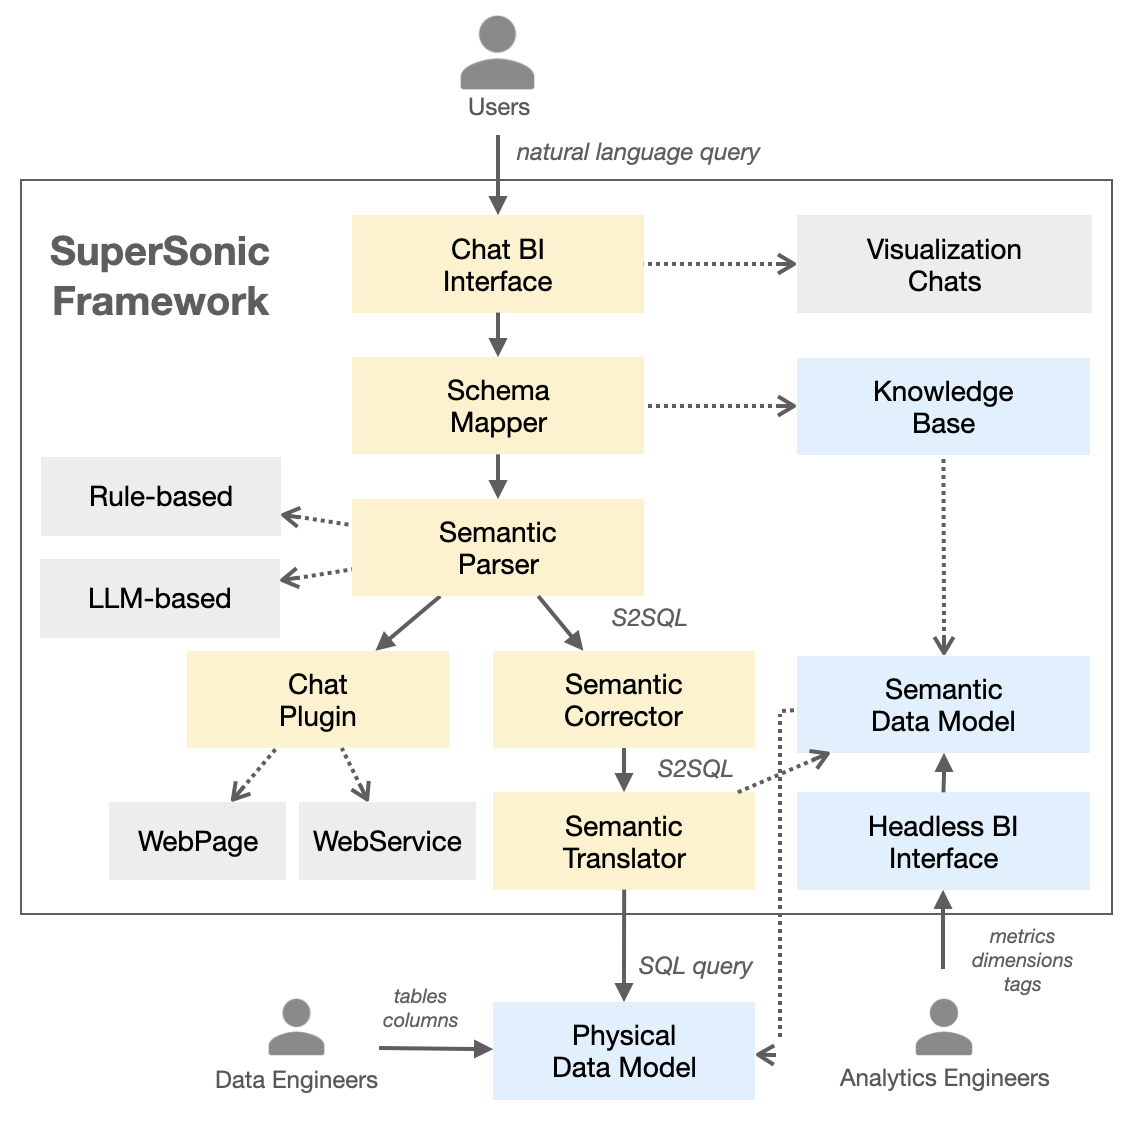
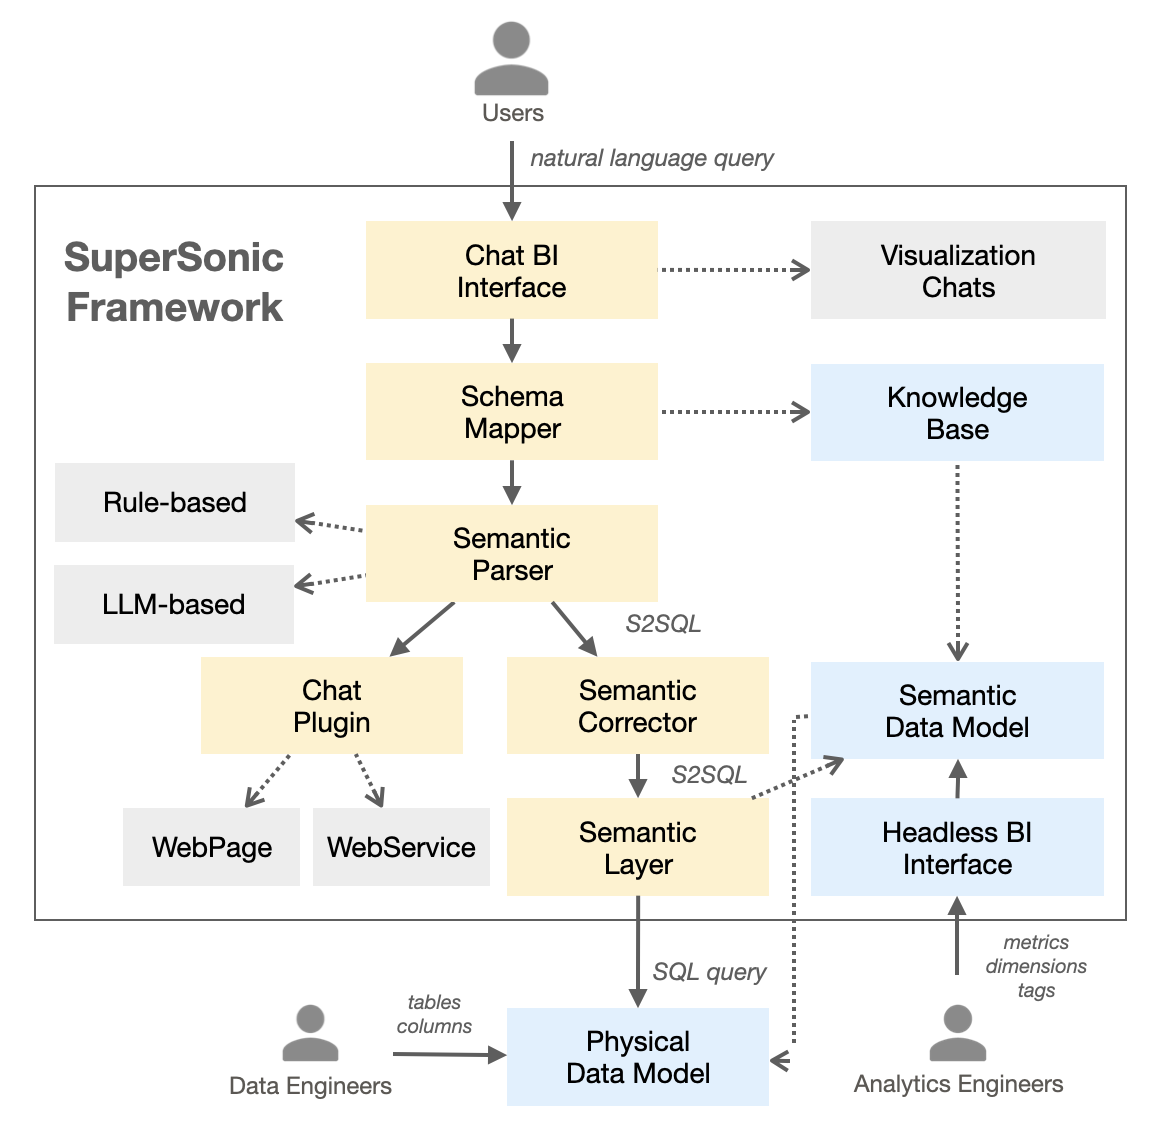
update architecture diagram supersonicbi/supersonic-website@c2b4e90f32a2adac97fd17ed9366f53eed288d13

diff --git a/en.search.min.e58361ee6a94e294281ae9491d2cc8cc53ec4a44b9a971f83f2f01f9f8c2fefe.js b/en.search.min.e58361ee6a94e294281ae9491d2cc8cc53ec4a44b9a971f83f2f01f9f8c2fefe.js
@@ -1,0 +1,1 @@
+"use strict";(function(){const o="/en.search-data.min.9fed5871d8051654f6367a95e5c81a5f96d656e63b72ceae3185a0ee5d215e9f.json",i=Object.assign({cache:!0},{includeScore:!0,useExtendedSearch:!0,fieldNormWeight:1.5,threshold:.2,ignoreLocation:!0,keys:[{name:"title",weight:.7},{name:"content",weight:.3}]}),e=document.querySelector("#book-search-input"),t=document.querySelector("#book-search-results");if(!e)return;e.addEventListener("focus",n),e.addEventListener("keyup",s),document.addEventListener("keypress",a);function a(t){if(t.target.value!==void 0)return;if(e===document.activeElement)return;const n=String.fromCharCode(t.charCode);if(!r(n))return;e.focus(),t.preventDefault()}function r(t){const n=e.getAttribute("data-hotkeys")||"";return n.indexOf(t)>=0}function n(){e.removeEventListener("focus",n),e.required=!0,fetch(o).then(e=>e.json()).then(e=>{window.bookSearchIndex=new Fuse(e,i)}).then(()=>e.required=!1).then(s)}function s(){for(;t.firstChild;)t.removeChild(t.firstChild);if(!e.value)return;const n=window.bookSearchIndex.search(e.value).slice(0,10);n.forEach(function(e){const n=c("<li><a href></a><small></small></li>"),s=n.querySelector("a"),o=n.querySelector("small");s.href=e.item.href,s.textContent=e.item.title,o.textContent=e.item.section,t.appendChild(n)})}function c(e){const t=document.createElement("div");return t.innerHTML=e,t.firstChild}})()

diff --git a/docs/系统部署/配置llm/index.html b/docs/系统部署/配置llm/index.html
@@ -31,7 +31,7 @@ rm /tmp/InMemory.meta_collectio年 rm /tmp/InMemory.preset_query_collection rm /
 <link rel="canonical" href="https://supersonicbi.github.io/docs/%E7%B3%BB%E7%BB%9F%E9%83%A8%E7%BD%B2/%E9%85%8D%E7%BD%AEllm/">
 <link rel="stylesheet" href="/book.min.4964903a822a7acb10dac6d1ab524833c97fb5f99b141976bcb8a47d539be9c0.css" integrity="sha256-SWSQOoIqessQ2sbRq1JIM8l/tfmbFBl2vLikfVOb6cA=" crossorigin="anonymous">
   <script defer src="/fuse.min.js"></script>
-  <script defer src="/en.search.min.39de96308f383e8c5493b621abca55951bf5b9f939781de49881c79b95fa2a1d.js" integrity="sha256-Od6WMI84PoxUk7Yhq8pVlRv1ufk5eB3kmIHHm5X6Kh0=" crossorigin="anonymous"></script>
+  <script defer src="/en.search.min.e58361ee6a94e294281ae9491d2cc8cc53ec4a44b9a971f83f2f01f9f8c2fefe.js" integrity="sha256-5YNh7mqU4pQoGulJHSzIzFPsSkS5qXH4Py8B&#43;fjC/v4=" crossorigin="anonymous"></script>
 
   
 

diff --git a/docs/系统部署/配置db/index.html b/docs/系统部署/配置db/index.html
@@ -27,7 +27,7 @@ spring: datasource: url: jdbc:mysql://localhost:3306/your_database?useUnicode=tr
 <link rel="canonical" href="https://supersonicbi.github.io/docs/%E7%B3%BB%E7%BB%9F%E9%83%A8%E7%BD%B2/%E9%85%8D%E7%BD%AEdb/">
 <link rel="stylesheet" href="/book.min.4964903a822a7acb10dac6d1ab524833c97fb5f99b141976bcb8a47d539be9c0.css" integrity="sha256-SWSQOoIqessQ2sbRq1JIM8l/tfmbFBl2vLikfVOb6cA=" crossorigin="anonymous">
   <script defer src="/fuse.min.js"></script>
-  <script defer src="/en.search.min.39de96308f383e8c5493b621abca55951bf5b9f939781de49881c79b95fa2a1d.js" integrity="sha256-Od6WMI84PoxUk7Yhq8pVlRv1ufk5eB3kmIHHm5X6Kh0=" crossorigin="anonymous"></script>
+  <script defer src="/en.search.min.e58361ee6a94e294281ae9491d2cc8cc53ec4a44b9a971f83f2f01f9f8c2fefe.js" integrity="sha256-5YNh7mqU4pQoGulJHSzIzFPsSkS5qXH4Py8B&#43;fjC/v4=" crossorigin="anonymous"></script>
 
   
 

diff --git a/docs/headless-bi/构建模型/index.html b/docs/headless-bi/构建模型/index.html
@@ -49,7 +49,7 @@ PVUV统计: 主要包含用户访问次数和访问人数等信息
 <link rel="canonical" href="https://supersonicbi.github.io/docs/headless-bi/%E6%9E%84%E5%BB%BA%E6%A8%A1%E5%9E%8B/">
 <link rel="stylesheet" href="/book.min.4964903a822a7acb10dac6d1ab524833c97fb5f99b141976bcb8a47d539be9c0.css" integrity="sha256-SWSQOoIqessQ2sbRq1JIM8l/tfmbFBl2vLikfVOb6cA=" crossorigin="anonymous">
   <script defer src="/fuse.min.js"></script>
-  <script defer src="/en.search.min.39de96308f383e8c5493b621abca55951bf5b9f939781de49881c79b95fa2a1d.js" integrity="sha256-Od6WMI84PoxUk7Yhq8pVlRv1ufk5eB3kmIHHm5X6Kh0=" crossorigin="anonymous"></script>
+  <script defer src="/en.search.min.e58361ee6a94e294281ae9491d2cc8cc53ec4a44b9a971f83f2f01f9f8c2fefe.js" integrity="sha256-5YNh7mqU4pQoGulJHSzIzFPsSkS5qXH4Py8B&#43;fjC/v4=" crossorigin="anonymous"></script>
 
   
 

diff --git a/docs/系统部署/编译构建/index.html b/docs/系统部署/编译构建/index.html
@@ -21,7 +21,7 @@
 <link rel="canonical" href="https://supersonicbi.github.io/docs/%E7%B3%BB%E7%BB%9F%E9%83%A8%E7%BD%B2/%E7%BC%96%E8%AF%91%E6%9E%84%E5%BB%BA/">
 <link rel="stylesheet" href="/book.min.4964903a822a7acb10dac6d1ab524833c97fb5f99b141976bcb8a47d539be9c0.css" integrity="sha256-SWSQOoIqessQ2sbRq1JIM8l/tfmbFBl2vLikfVOb6cA=" crossorigin="anonymous">
   <script defer src="/fuse.min.js"></script>
-  <script defer src="/en.search.min.39de96308f383e8c5493b621abca55951bf5b9f939781de49881c79b95fa2a1d.js" integrity="sha256-Od6WMI84PoxUk7Yhq8pVlRv1ufk5eB3kmIHHm5X6Kh0=" crossorigin="anonymous"></script>
+  <script defer src="/en.search.min.e58361ee6a94e294281ae9491d2cc8cc53ec4a44b9a971f83f2f01f9f8c2fefe.js" integrity="sha256-5YNh7mqU4pQoGulJHSzIzFPsSkS5qXH4Py8B&#43;fjC/v4=" crossorigin="anonymous"></script>
 
   
 

diff --git a/docs/headless-bi/组装数据集/index.html b/docs/headless-bi/组装数据集/index.html
@@ -25,7 +25,7 @@
 <link rel="canonical" href="https://supersonicbi.github.io/docs/headless-bi/%E7%BB%84%E8%A3%85%E6%95%B0%E6%8D%AE%E9%9B%86/">
 <link rel="stylesheet" href="/book.min.4964903a822a7acb10dac6d1ab524833c97fb5f99b141976bcb8a47d539be9c0.css" integrity="sha256-SWSQOoIqessQ2sbRq1JIM8l/tfmbFBl2vLikfVOb6cA=" crossorigin="anonymous">
   <script defer src="/fuse.min.js"></script>
-  <script defer src="/en.search.min.39de96308f383e8c5493b621abca55951bf5b9f939781de49881c79b95fa2a1d.js" integrity="sha256-Od6WMI84PoxUk7Yhq8pVlRv1ufk5eB3kmIHHm5X6Kh0=" crossorigin="anonymous"></script>
+  <script defer src="/en.search.min.e58361ee6a94e294281ae9491d2cc8cc53ec4a44b9a971f83f2f01f9f8c2fefe.js" integrity="sha256-5YNh7mqU4pQoGulJHSzIzFPsSkS5qXH4Py8B&#43;fjC/v4=" crossorigin="anonymous"></script>
 
   
 

diff --git a/docs/headless-bi/连接数据库/index.html b/docs/headless-bi/连接数据库/index.html
@@ -25,7 +25,7 @@
 <link rel="canonical" href="https://supersonicbi.github.io/docs/headless-bi/%E8%BF%9E%E6%8E%A5%E6%95%B0%E6%8D%AE%E5%BA%93/">
 <link rel="stylesheet" href="/book.min.4964903a822a7acb10dac6d1ab524833c97fb5f99b141976bcb8a47d539be9c0.css" integrity="sha256-SWSQOoIqessQ2sbRq1JIM8l/tfmbFBl2vLikfVOb6cA=" crossorigin="anonymous">
   <script defer src="/fuse.min.js"></script>
-  <script defer src="/en.search.min.39de96308f383e8c5493b621abca55951bf5b9f939781de49881c79b95fa2a1d.js" integrity="sha256-Od6WMI84PoxUk7Yhq8pVlRv1ufk5eB3kmIHHm5X6Kh0=" crossorigin="anonymous"></script>
+  <script defer src="/en.search.min.e58361ee6a94e294281ae9491d2cc8cc53ec4a44b9a971f83f2f01f9f8c2fefe.js" integrity="sha256-5YNh7mqU4pQoGulJHSzIzFPsSkS5qXH4Py8B&#43;fjC/v4=" crossorigin="anonymous"></script>
 
   
 

diff --git a/docs/headless-bi/管理指标/index.html b/docs/headless-bi/管理指标/index.html
@@ -21,7 +21,7 @@
 <link rel="canonical" href="https://supersonicbi.github.io/docs/headless-bi/%E7%AE%A1%E7%90%86%E6%8C%87%E6%A0%87/">
 <link rel="stylesheet" href="/book.min.4964903a822a7acb10dac6d1ab524833c97fb5f99b141976bcb8a47d539be9c0.css" integrity="sha256-SWSQOoIqessQ2sbRq1JIM8l/tfmbFBl2vLikfVOb6cA=" crossorigin="anonymous">
   <script defer src="/fuse.min.js"></script>
-  <script defer src="/en.search.min.39de96308f383e8c5493b621abca55951bf5b9f939781de49881c79b95fa2a1d.js" integrity="sha256-Od6WMI84PoxUk7Yhq8pVlRv1ufk5eB3kmIHHm5X6Kh0=" crossorigin="anonymous"></script>
+  <script defer src="/en.search.min.e58361ee6a94e294281ae9491d2cc8cc53ec4a44b9a971f83f2f01f9f8c2fefe.js" integrity="sha256-5YNh7mqU4pQoGulJHSzIzFPsSkS5qXH4Py8B&#43;fjC/v4=" crossorigin="anonymous"></script>
 
   
 
